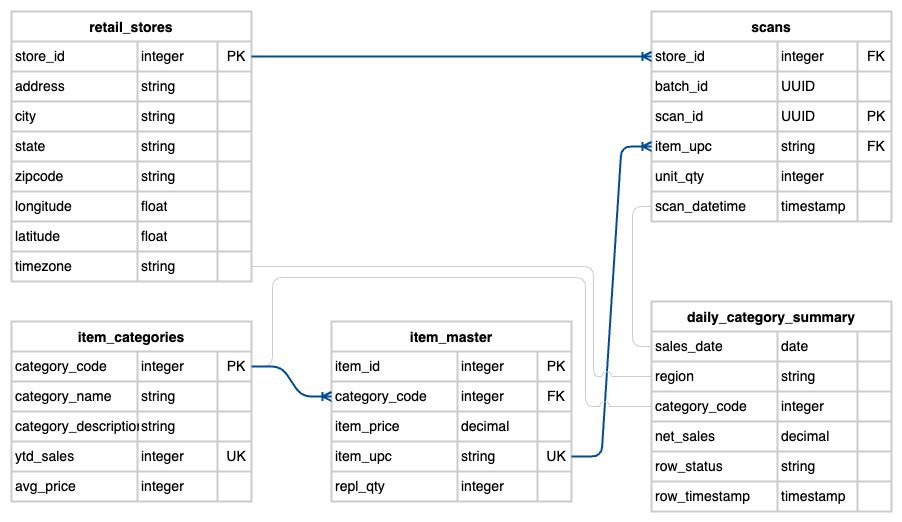
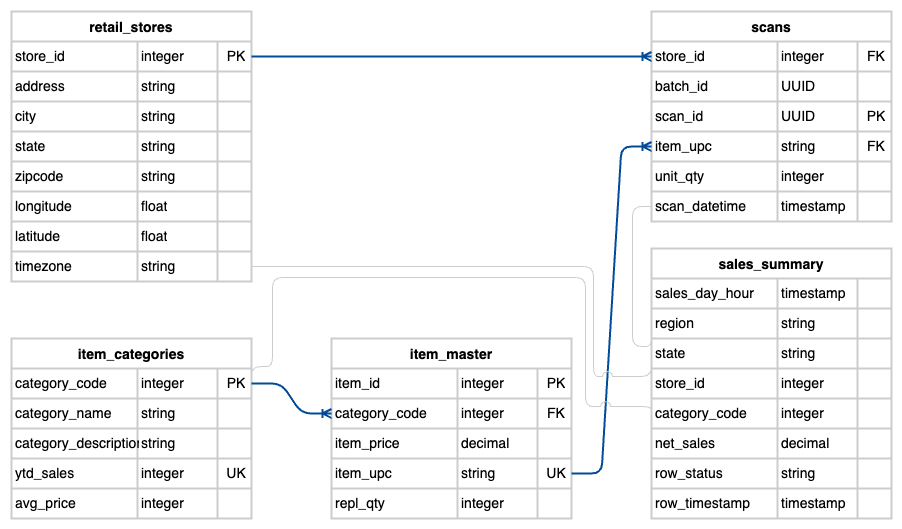
Update doc

diff --git a/README.md b/README.md
@@ -1,23 +1,22 @@
 # acme demo
 
-For various data management and analytics demonstrations, I've been building up this ACME company dataset and various data generators and utilities. I'm going to start cleaning it up and placing it here.
+This is a data set and various data generators, samples, queries and configurations for the 'Acme' company demo. It is meant to emulate a data lakehouse pipeline. It has a Postgres database, CDC through Kafka, data generators, confluent schemas, dbt transforms, Athena queries, a Databricks notebook, and other moving parts.
+
+This is based on a real-world scenario I encountered at a major retailer. They wanted gather all retail point-of-sale (POS) data across thousands of stores in near-real time for instant analysis, particularly around the competitive holiday period.
 
 Block diagram:
 <picture>
-
-  <source media="(prefers-color-scheme: dark)" srcset="https://github.com/corourke/acme/blob/main/doc/images/diagrams-architecture-dark.png?raw=true">
-  <source media="(prefers-color-scheme: light)" srcset="https://github.com/corourke/acme/blob/main/doc/images/diagrams-architecture.png?raw=true">
-  <img alt="Architecture diagram" src="https://github.com/corourke/acme/blob/main/doc/images/diagrams-architecture.png?raw=true">
+<img alt="Architecture diagram" src="https://github.com/corourke/acme/blob/main/doc/images/diagrams-architecture.png?raw=true">
 </picture>
 
 Tables:
 <picture>
-  <source media="(prefers-color-scheme: dark)" srcset="https://github.com/corourke/acme/blob/main/doc/images/diagrams-tables-dark.png?raw=true">
-  <source media="(prefers-color-scheme: light)" srcset="https://github.com/corourke/acme/blob/main/doc/images/diagrams-tables.png?raw=true">
-  <img alt="Architecture diagram" src="https://github.com/corourke/acme/blob/main/doc/images/diagrams-tables.png?raw=true">
+<img alt="Table ER diagram" src="https://github.com/corourke/acme/blob/main/doc/images/diagrams-tables.png?raw=true">
 </picture>
 
-Note that the `batched_scans` table is to be generated with a data generator.
+Note that the `batched_scans` table is to be generated with a data generator, and the `sales_summary` table is to be created with stream processing.
+
+I'm working on a comprehensive and standalone setup guide. In the meantime, the <a href="https://github.com/corourke/acme/blob/1d030873fe3b34fdf62fbfecf17a6db049c0b7f1/doc/Onehouse_Postgres_CDC_Guide_2401.pdf">Onehouse PostgreSQL CDC Getting Started Guide will have to do.</a>
 
 ### Notes
 
